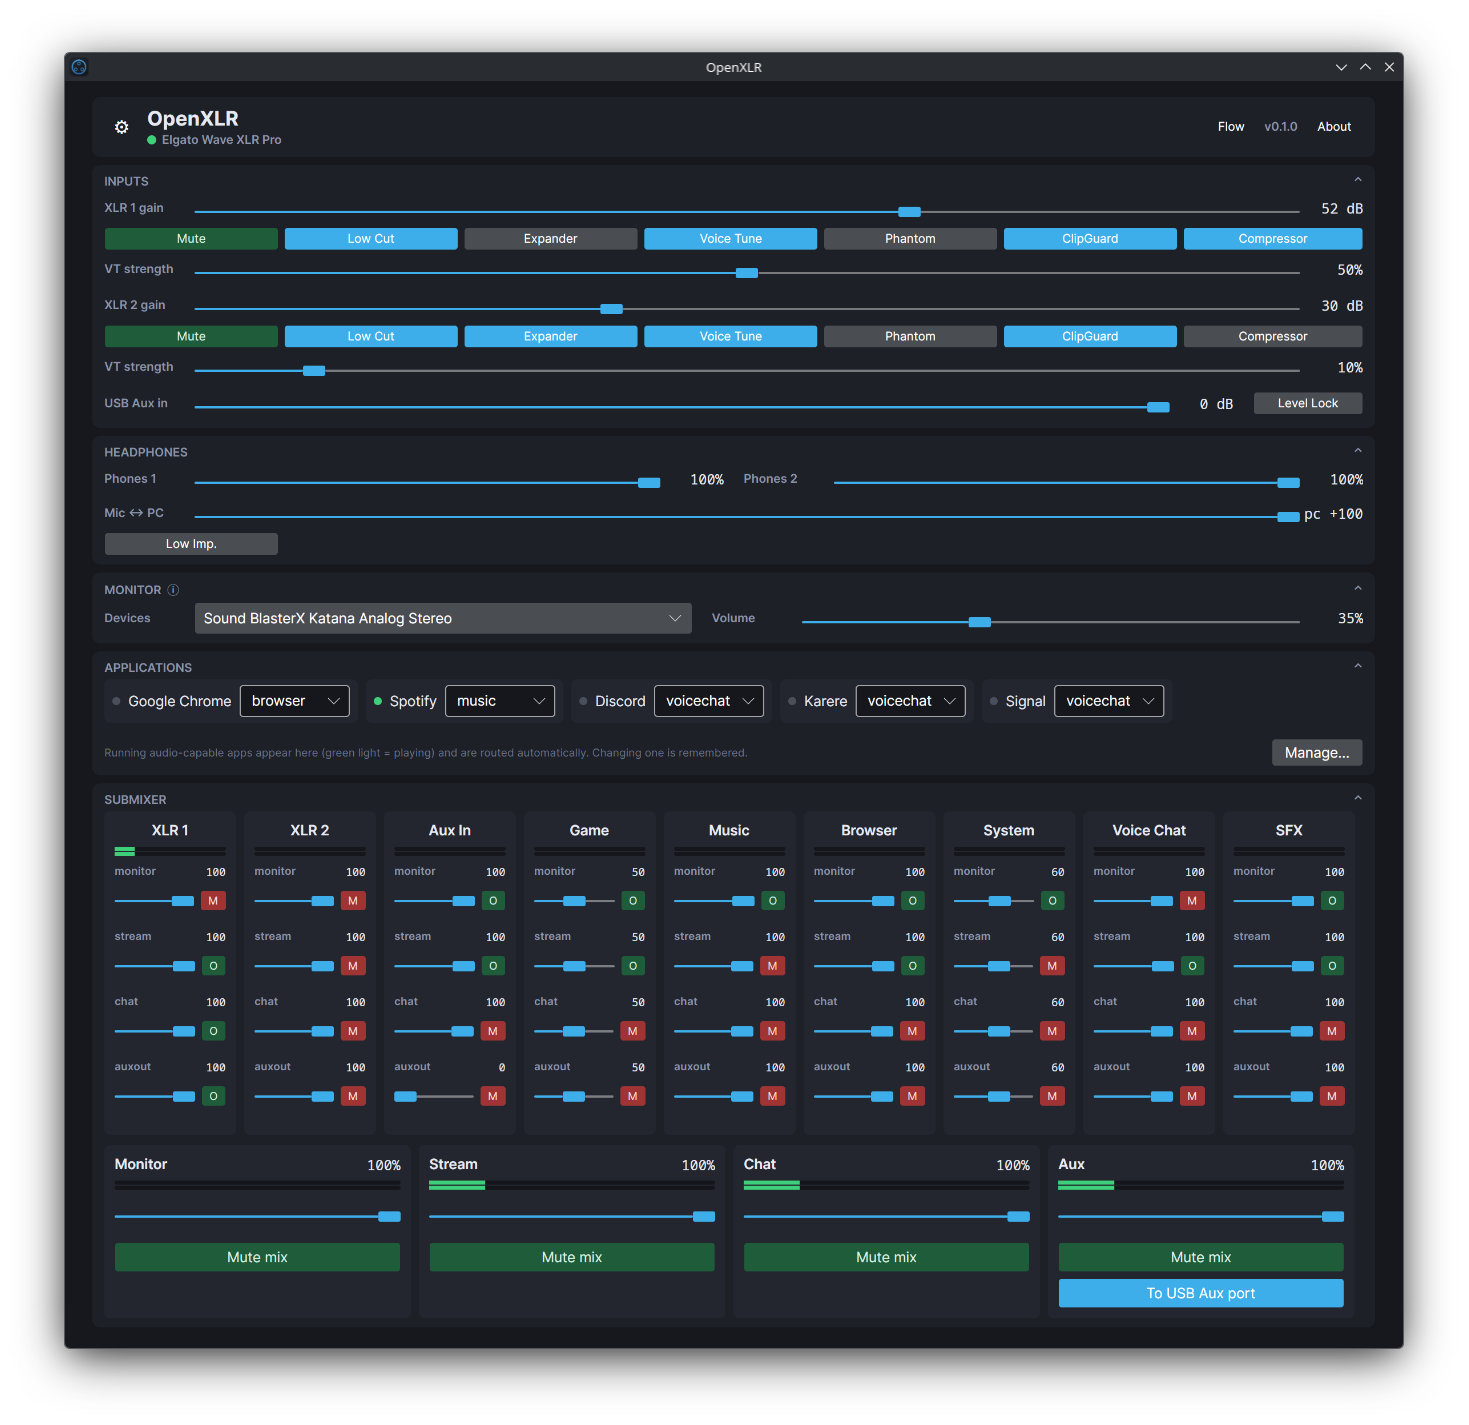
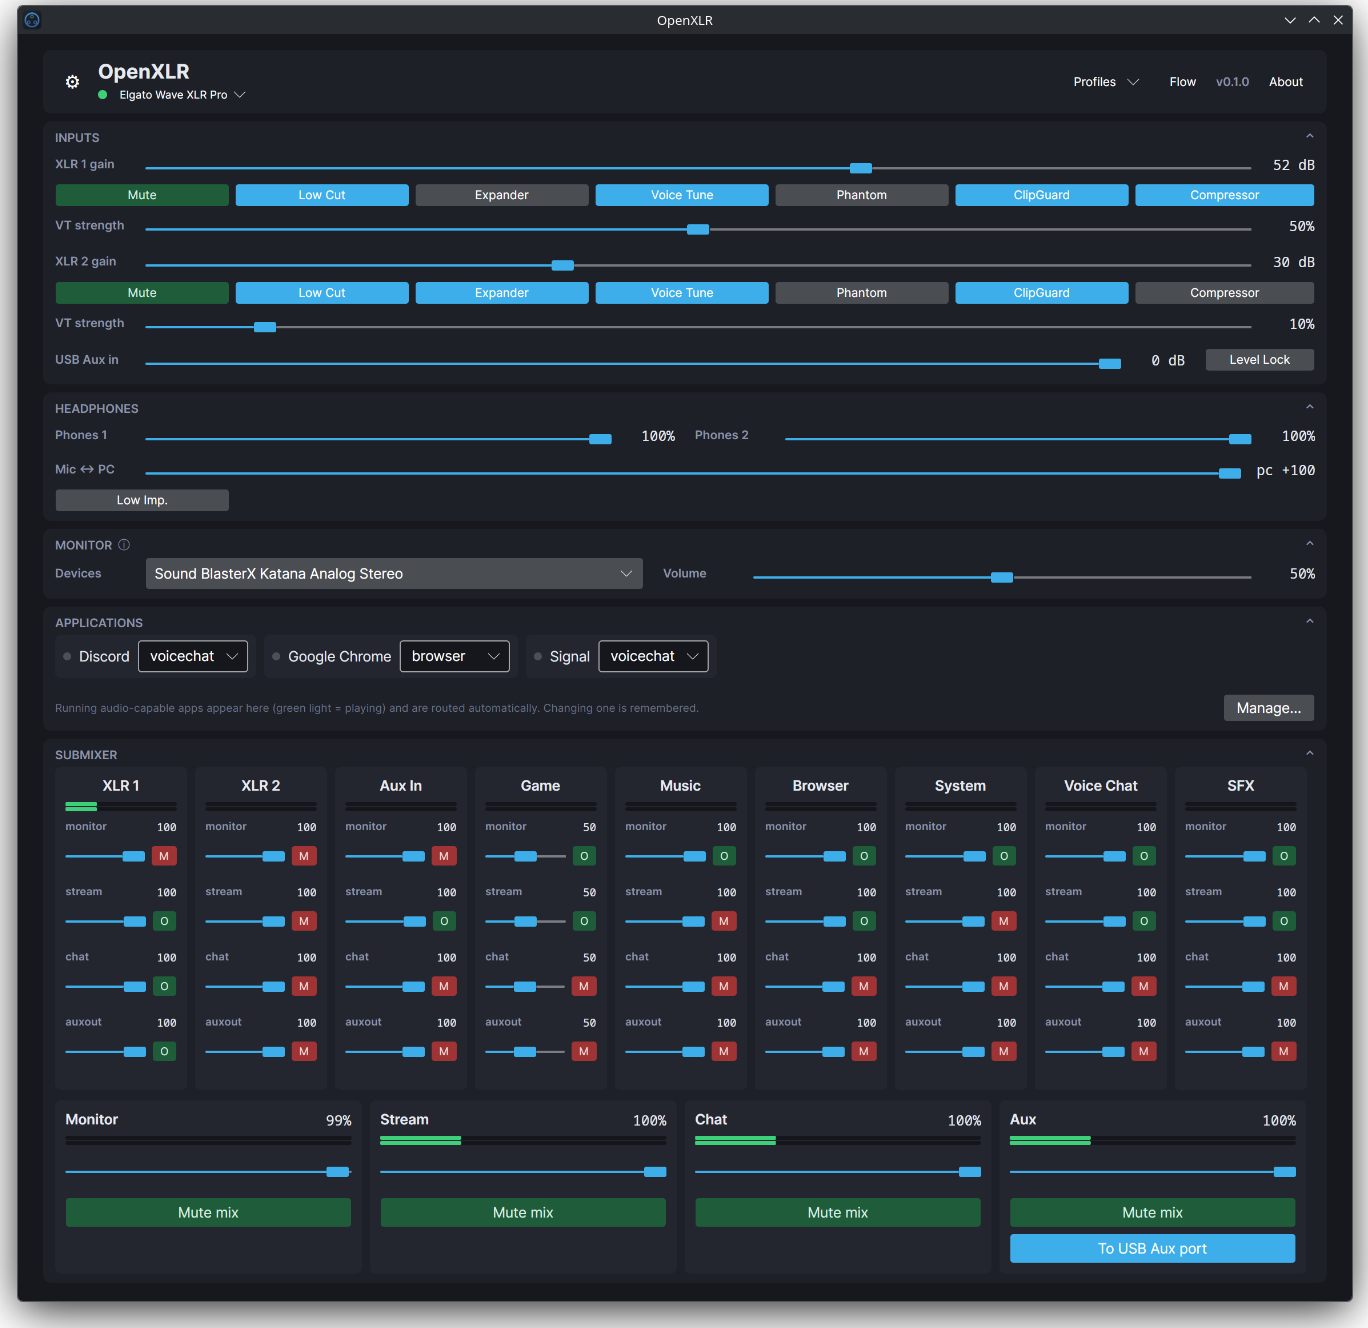
README: full deploy walkthrough, fresh screenshot
Install is now a numbered path from packages to a running rig:
prerequisites per distribution, build, udev, the dock rule, a first
run with what success looks like, permanent setup by the Options
window or by hand with the reference unit (now on a %h path instead
of a hardcoded home), the OpenDeck plugin, updating, and uninstall.
The screenshot catches up with the current UI: device picker,
software DSP controls, and the capability-driven layout.

diff --git a/README.md b/README.md
@@ -195,13 +195,45 @@ bounces the stream once. Details, offsets and the discovery story:
 
 ## Install
 
+A complete deploy from source, top to bottom. Every step is explicit;
+nothing assumes an earlier OpenXLR on the machine.
+
+### 1. Prerequisites
+
+The .NET 10 SDK, PipeWire with its CLI tools, and libusb. Package names
+by distribution:
+
+```sh
+# Arch
+sudo pacman -S --needed dotnet-sdk pipewire pipewire-pulse wireplumber libusb
+# optional, enables the software ClipGuard for the XLR Dock:
+sudo pacman -S --needed swh-plugins
+
+# Fedora
+sudo dnf install dotnet-sdk-10.0 pipewire pipewire-pulseaudio wireplumber libusb1 ladspa-swh-plugins
+
+# Debian / Ubuntu (dotnet from Microsoft's feed if the distro lacks 10.0)
+sudo apt install dotnet-sdk-10.0 pipewire pipewire-pulse wireplumber libusb-1.0-0 swh-plugins
+```
+
+Verify the audio stack is PipeWire before going further:
+
+```sh
+pactl info | grep "Server Name"    # should say PulseAudio (on PipeWire ...)
+```
+
+### 2. Build
+
 ```sh
 git clone https://github.com/emaspa/openxlr.git
 cd openxlr/src
 dotnet build -c Release
 ```
 
-Device access (udev rule, then replug the device):
+Binaries land in `src/OpenXLR.Daemon/bin/Release/net10.0/` and
+`src/OpenXLR.UI/bin/Release/net10.0/`.
+
+### 3. Device access (udev rule, then replug the device):
 
 ```sh
 sudo tee /etc/udev/rules.d/70-openxlr.rules << 'EOF'
@@ -212,6 +244,8 @@ SUBSYSTEM=="usb", ATTRS{idVendor}=="0fd9", ATTRS{idProduct}=="00b6", MODE="0660"
 EOF
 sudo udevadm control --reload
 ```
+
+### 4. XLR Dock only: the capture-hold rule
 
 XLR Dock owners need one more file. The Linux kernel starves the dock's
 capture endpoint whenever playback to it starts before capture, and the
@@ -226,22 +260,71 @@ cp packaging/50-xlr-dock-capture-hold.conf ~/.config/wireplumber/wireplumber.con
 systemctl --user restart wireplumber
 ```
 
-Run the daemon (the mixer graph is opt-in so a bare run never surprises
-your audio setup):
+### 5. First run
+
+Run the daemon in a terminal (the mixer graph is opt-in so a bare run
+never surprises your audio setup):
 
 ```sh
 OPENXLR_BUILD_MIXER=1 ./OpenXLR.Daemon/bin/Release/net10.0/OpenXLR.Daemon
 ```
 
-Run the UI:
+The log should show your device connecting and `submix graph built`.
+Then, in a second terminal, the UI:
 
 ```sh
 ./OpenXLR.UI/bin/Release/net10.0/OpenXLR.UI
 ```
 
-For permanent use, the Options window (the gear button) installs a systemd
-user unit for the daemon and an autostart entry for the UI; a reference unit is in
-[packaging/openxlr-daemon.service](packaging/openxlr-daemon.service).
+The header dot turns green when the daemon has the device. If it says
+"no device", re-check the udev rule and replug.
+
+### 6. Make it permanent
+
+The easy way: the Options window (the gear button) installs a systemd
+user unit for the daemon and an autostart entry for the UI with two
+checkboxes.
+
+The manual way, using the reference unit in
+[packaging/openxlr-daemon.service](packaging/openxlr-daemon.service):
+
+```sh
+cp packaging/openxlr-daemon.service ~/.config/systemd/user/
+# edit ExecStart in the copy if you cloned somewhere other than ~/openxlr
+systemctl --user daemon-reload
+systemctl --user enable --now openxlr-daemon.service
+journalctl --user -u openxlr-daemon.service -f   # watch it come up
+```
+
+### 7. OpenDeck plugin (optional)
+
+With [OpenDeck](https://github.com/nekename/OpenDeck) installed, copy
+the plugin folder (a symlink breaks OpenDeck's asset serving) and
+restart OpenDeck:
+
+```sh
+cp -r plugin/com.emaspa.openxlr.sdPlugin ~/.config/opendeck/plugins/
+```
+
+### 8. Updating
+
+```sh
+cd openxlr && git pull
+cd src && dotnet build -c Release
+systemctl --user restart openxlr-daemon.service
+```
+
+Restart the UI and, if you use it, recopy the OpenDeck plugin folder.
+
+### Uninstall
+
+```sh
+systemctl --user disable --now openxlr-daemon.service
+rm ~/.config/systemd/user/openxlr-daemon.service
+sudo rm /etc/udev/rules.d/70-openxlr.rules
+rm -rf ~/.config/openxlr ~/.config/opendeck/plugins/com.emaspa.openxlr.sdPlugin
+rm ~/.config/wireplumber/wireplumber.conf.d/50-xlr-dock-capture-hold.conf
+```
 
 ### Environment variables
 
